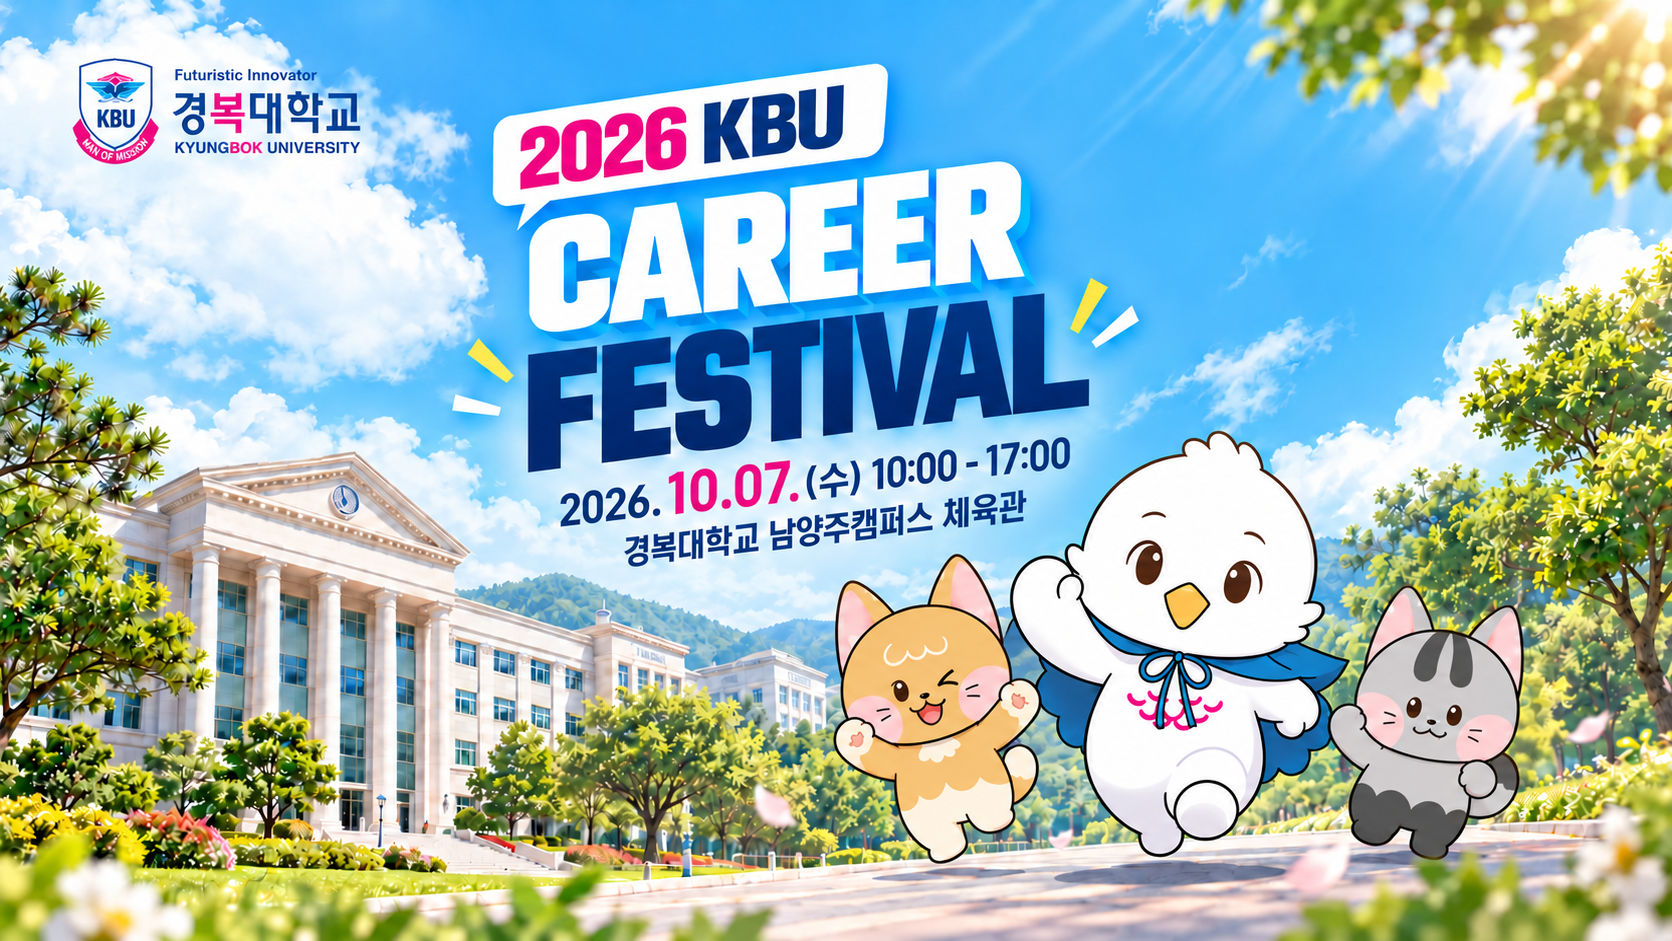
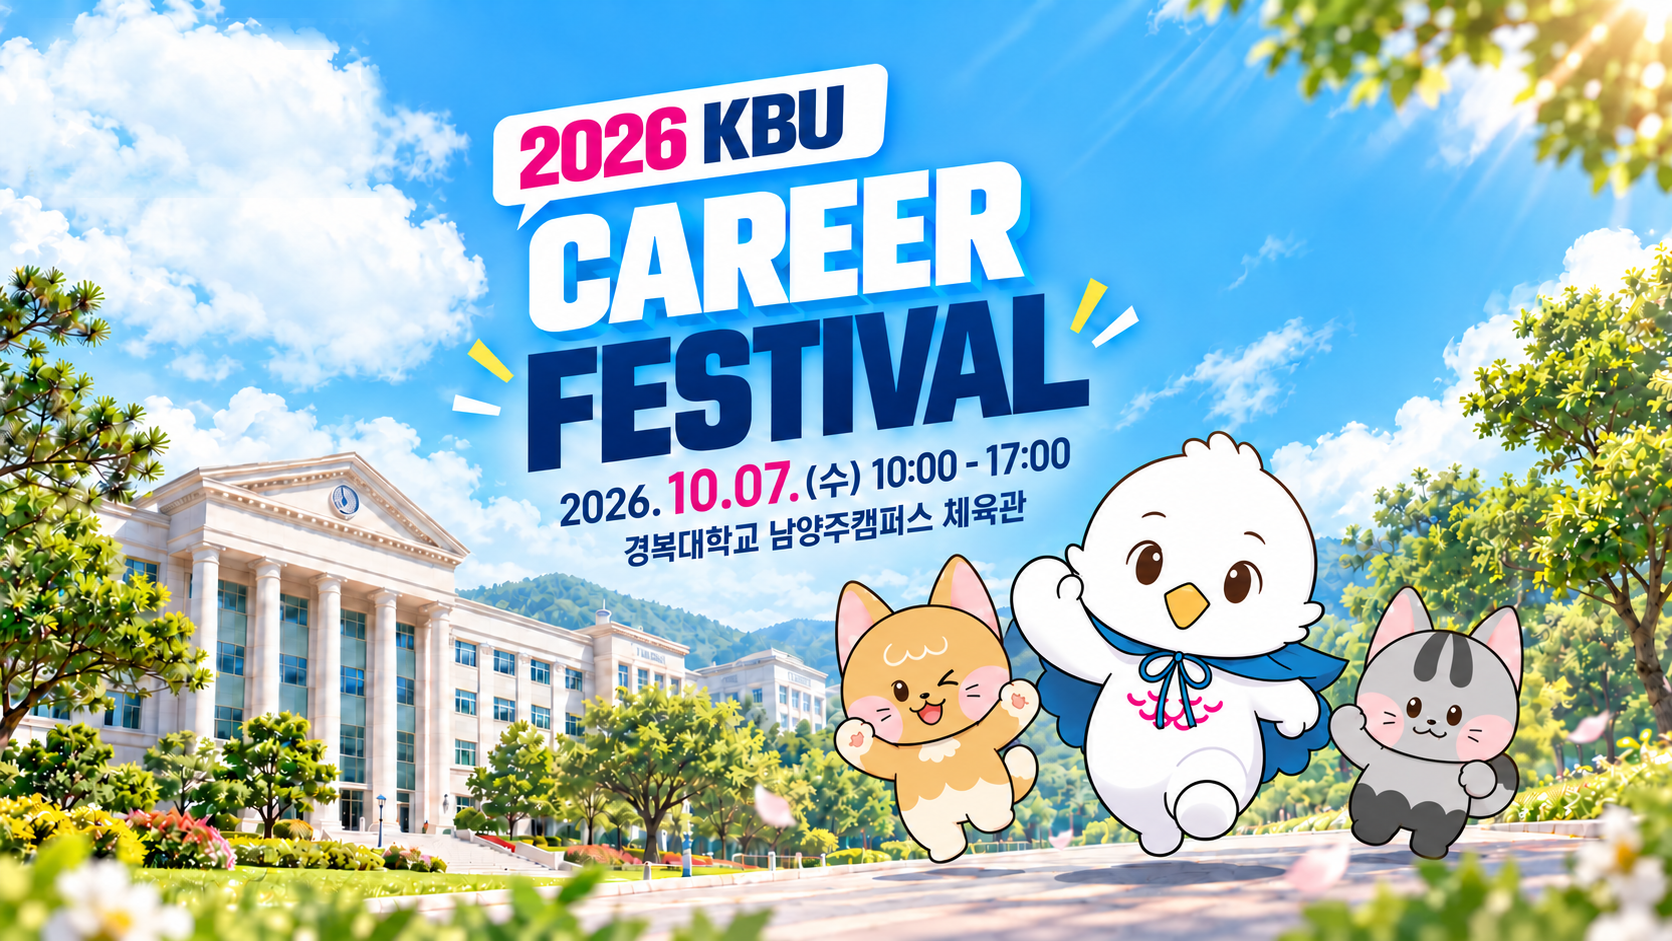
Add files via upload

Changed region(s): [[0.0, 0.0, 0.2488, 0.2157]]

diff --git a/kbu_career_festival_site_v11/assets/additions-v15.css b/kbu_career_festival_site_v11/assets/additions-v15.css
@@ -9,7 +9,7 @@
 .compact-benefits-row{display:grid;grid-template-columns:repeat(2,minmax(0,1fr));gap:12px}.compact-benefit{min-height:104px;display:flex;align-items:center;gap:12px;padding:12px 14px;border-radius:14px;background:#f8fafc}.compact-benefit img{width:74px;height:74px;object-fit:contain;flex-shrink:0}.compact-benefit span{display:block;color:var(--pink);font-size:.72rem;font-weight:800;margin-bottom:4px}.compact-benefit strong{display:block;color:var(--navy);font-size:.94rem;line-height:1.4}
 .compact-prizes{margin-top:18px;padding-top:17px;border-top:1px solid #edf0f4}.compact-prize-title{font-size:.9rem;font-weight:900;color:var(--navy);margin-bottom:12px}.compact-prize-grid{display:grid;grid-template-columns:repeat(5,minmax(0,1fr));gap:6px}.compact-prize-grid>div{text-align:center;min-width:0}.compact-prize-grid b{display:block;color:var(--pink);font-size:.72rem}.compact-prize-grid img{height:48px;width:100%;object-fit:contain;margin:5px auto}.compact-prize-grid span{display:block;font-size:.64rem;line-height:1.3;color:#516078;word-break:keep-all}
 
-.home-partners{background:#fff;padding-top:70px;padding-bottom:76px}.home-partners-head{margin-bottom:28px}.home-partner-grid{display:grid;grid-template-columns:repeat(6,minmax(0,1fr));gap:26px 22px;align-items:center}.home-partner-logo{height:72px;display:flex;align-items:center;justify-content:center;padding:4px 8px;min-width:0}.home-partner-logo img{max-width:100%;max-height:54px;width:auto;height:auto;object-fit:contain}
+.home-partners{background:#fff;padding-top:70px;padding-bottom:76px}.home-partners-head{margin-bottom:28px}.home-partner-grid{display:grid;grid-template-columns:repeat(5,minmax(0,1fr));gap:26px 22px;align-items:center}.home-partner-logo{height:72px;display:flex;align-items:center;justify-content:center;padding:4px 8px;min-width:0}.home-partner-logo img{max-width:100%;max-height:54px;width:auto;height:auto;object-fit:contain}
 .quick-grid-three{grid-template-columns:repeat(3,minmax(0,1fr))!important}.home-quick{padding-top:74px;padding-bottom:74px}
 
 /* Participating companies / recruitment directory, modeled after the provided reference without copying its day tabs. */

diff --git a/kbu_career_festival_site_v11/index.html b/kbu_career_festival_site_v11/index.html
@@ -40,18 +40,6 @@
 </section>
 </div>
 </section>
-
-
-<section class="section quick home-quick">
-<div class="section-inner">
-<div class="section-head"><div><p class="section-kicker">QUICK MENU</p><h2 class="section-title">필요한 정보 바로가기</h2></div></div>
-<div class="quick-grid">
-<a class="quick-card" href="program/index.html"><div><small>PROGRAM</small><h3>프로그램</h3><p>프로그램 정보를 확인합니다.</p></div><span class="arrow">바로가기 →</span></a>
-
-<a class="quick-card" href="recruit/index.html"><div><small>RECRUIT</small><h3>채용정보</h3><p>기업별 채용정보를 확인합니다.</p></div><span class="arrow">바로가기 →</span></a>
-</div>
-</div>
-</section>
 <section class="apply-section">
 <div class="apply-box">
 <div><p class="section-kicker">APPLY</p><h2>참가신청</h2><p>사전등록 페이지에서 참가신청을 진행할 수 있습니다.</p></div>
